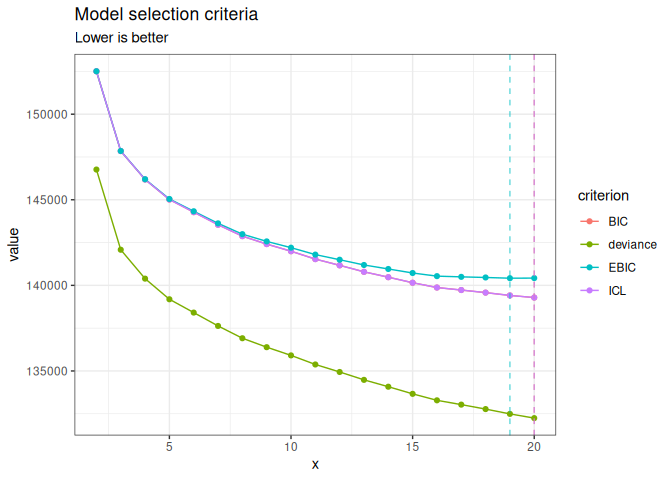
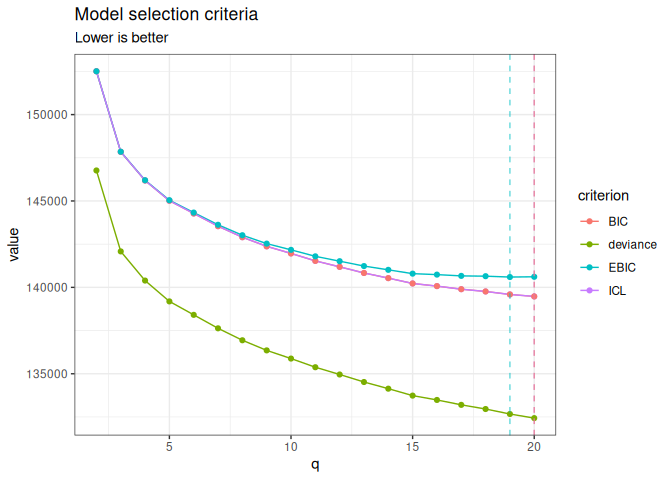
Examples, vignettes and README use the S3 methods when there is one
plot(x) rather than x$plot(...) for models and collections, summary(x)
rather than x$criteria, and fitted() rather than $fitted in the docs.
README.md regenerated.

diff --git a/README.md b/README.md
@@ -134,31 +134,12 @@ m_unknown <- normal_block(data, blocks = 2:20)
 ```
 
     Fitting a collection of diagonal normal-block-var models over q 
-         number of clusters = 2           
-         number of clusters = 3           
-         number of clusters = 4           
-         number of clusters = 5           
-         number of clusters = 6           
-         number of clusters = 7           
-         number of clusters = 8           
-         number of clusters = 9           
-         number of clusters = 10           
-         number of clusters = 11           
-         number of clusters = 12           
-         number of clusters = 13           
-         number of clusters = 14           
-         number of clusters = 15           
-         number of clusters = 16           
-         number of clusters = 17           
-         number of clusters = 18           
-         number of clusters = 19           
-         number of clusters = 20           
          refine(): improved 16 of 19 models
 
     DONE
 
 ``` r
-m_unknown$plot(c("deviance", "BIC", "ICL", "EBIC"))
+plot(m_unknown)
 ```
 
 ![](man/figures/README-unknown-1.png)
@@ -169,10 +150,8 @@ m_unknown$get_best_model("EBIC")
 
     A diagonal normal-block-var model with 19 unknown clusters.
     ===========================================================================
-     nb_param  q n_edges sparsity    loglik deviance      BIC      ICL     EBIC
-         1186 19     171        0 -66245.44 132490.9 139411.2 139411.2 140418.2
-     niter
-        11
+     nb_param  q n_edges sparsity    loglik deviance      BIC      ICL   EBIC niter
+         1186 19     171        0 -66334.86 132669.7 139590.1 139590.1 140597    18
     ===========================================================================
     * Useful fields
         $model_par, $posterior_par / $var_par, $clustering 
@@ -192,36 +171,7 @@ m_sparse <- normal_block(data, blocks = group, sparsity = TRUE)
 ```
 
     Fitting a collection of diagonal normal-block-var models over sparsity penalties, with fixed clusters 
-         penalty = 0.2565018           
-         penalty = 0.2188391           
-         penalty = 0.1867065           
-         penalty = 0.1592919           
-         penalty = 0.1359028           
-         penalty = 0.1159479           
-         penalty = 0.098923           
-         penalty = 0.08439792           
-         penalty = 0.07200559           
-         penalty = 0.06143286           
-         penalty = 0.05241254           
-         penalty = 0.04471669           
-         penalty = 0.03815085           
-         penalty = 0.03254907           
-         penalty = 0.02776982           
-         penalty = 0.02369232           
-         penalty = 0.02021353           
-         penalty = 0.01724553           
-         penalty = 0.01471333           
-         penalty = 0.01255294           
-         penalty = 0.01070977           
-         penalty = 0.009137229           
-         penalty = 0.00779559           
-         penalty = 0.006650947           
-         penalty = 0.005674374           
-         penalty = 0.004841193           
-         penalty = 0.004130351           
-         penalty = 0.003523882           
-         penalty = 0.003006463           
-         penalty = 0.002565018           
+
     DONE
 
 ``` r
@@ -248,13 +198,6 @@ m_zi    <- normal_block(data_zi, blocks = 2:8, zero_inflation = TRUE)
 ```
 
     Fitting a collection of zero-inflated diagonal normal-block-var models over q 
-         number of clusters = 2           
-         number of clusters = 3           
-         number of clusters = 4           
-         number of clusters = 5           
-         number of clusters = 6           
-         number of clusters = 7           
-         number of clusters = 8           
          refine(): improved 6 of 7 models
 
     DONE
